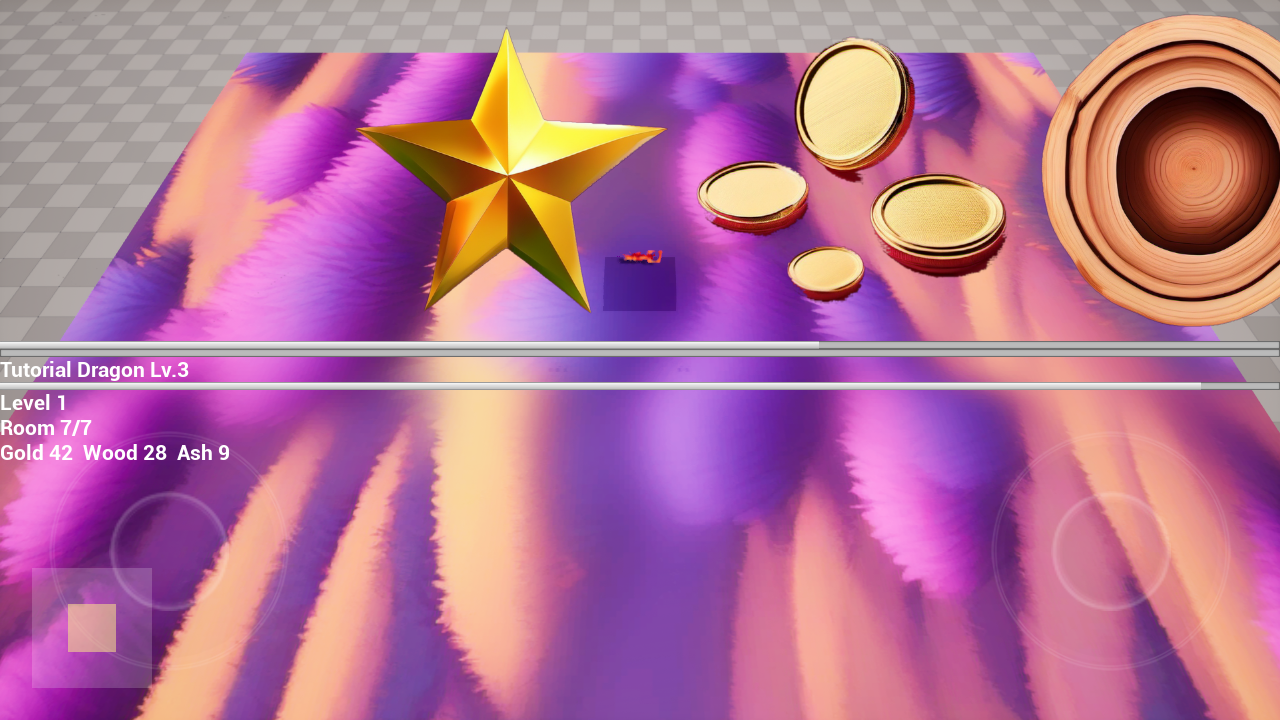
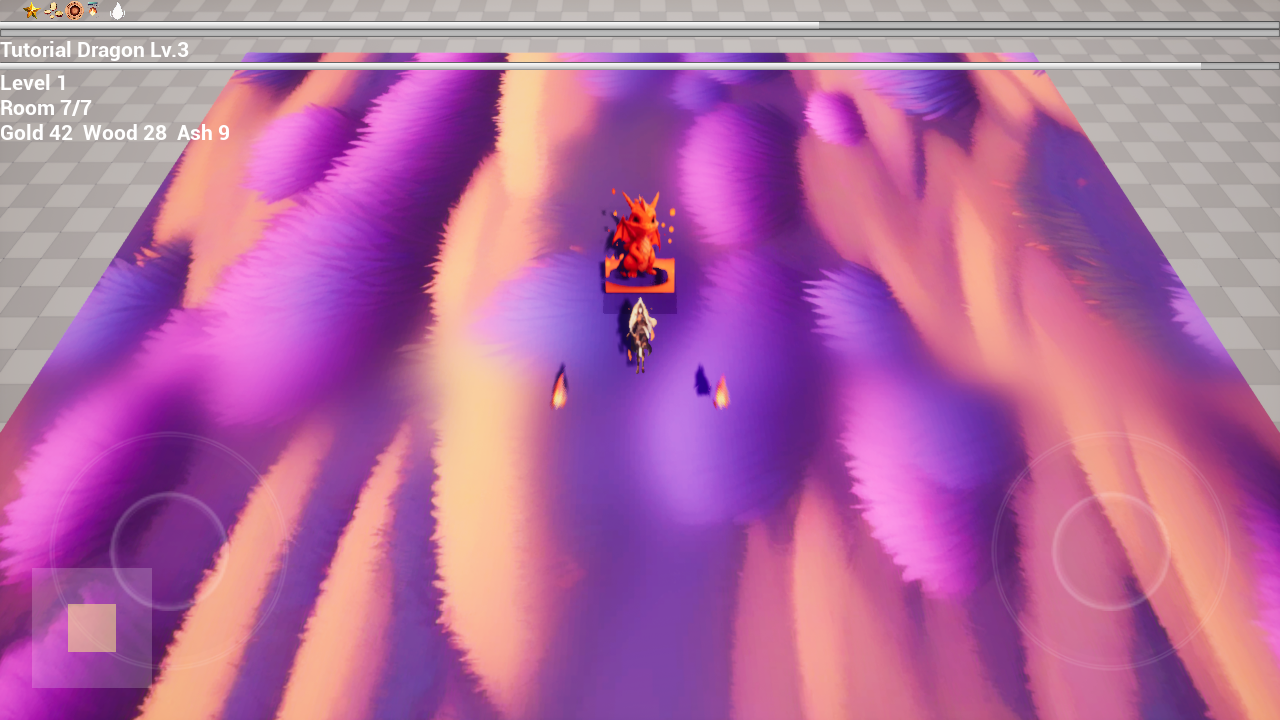
M9-polish: billboard orientation/scale/material/texture fixes

Changed region(s): [[0.0, 0.0, 1.0, 0.6417]]

diff --git a/Source/EmberboundIsekai/Enemies/EmberEnemyBase.cpp b/Source/EmberboundIsekai/Enemies/EmberEnemyBase.cpp
@@ -48,7 +48,7 @@ AEmberEnemyBase::AEmberEnemyBase()
 	if (PlaneMesh)
 	{
 		BillboardVisual->SetStaticMesh(PlaneMesh);
-		BillboardVisual->SetRelativeLocation(FVector(0.0f, 0.0f, 55.0f));
+		BillboardVisual->SetRelativeLocation(FVector(0.0f, 0.0f, 80.0f));
 		BillboardVisual->SetRelativeScale3D(FVector(1.0f, 1.0f, 1.0f));
 	}
 
@@ -235,9 +235,10 @@ void AEmberEnemyBase::ConfigureBillboard(FName TextureId, const FVector& VisualS
 {
 	if (BillboardVisual)
 	{
-		const float Width = FMath::Clamp(VisualScale.X * 1.35f, 0.6f, 2.6f);
-		const float Height = FMath::Clamp(VisualScale.Z * 1.7f, 0.55f, 2.7f);
-		BillboardVisual->SetRelativeScale3D(FVector(Width, 1.0f, Height));
+		const float Width = FMath::Clamp(VisualScale.X * 1.25f, 0.75f, 3.0f);
+		const float Height = FMath::Clamp(FMath::Max(VisualScale.Z * 1.8f, VisualScale.X * 1.35f), 0.95f, 3.2f);
+		BillboardVisual->SetRelativeLocation(FVector(0.0f, 0.0f, Height * 50.0f));
+		BillboardVisual->SetRelativeScale3D(FVector(Width, Height, 1.0f));
 		if (UMaterialInterface* Material = EmberGeneratedArt::LoadBillboardMaterial())
 		{
 			BillboardVisual->SetMaterial(0, Material);

diff --git a/Source/EmberboundIsekai/Expedition/ExpeditionGameMode.cpp b/Source/EmberboundIsekai/Expedition/ExpeditionGameMode.cpp
@@ -25,6 +25,7 @@
 #include "Engine/World.h"
 #include "HAL/IConsoleManager.h"
 #include "Kismet/GameplayStatics.h"
+#include "Materials/MaterialInstanceDynamic.h"
 #include "Materials/MaterialInterface.h"
 #include "Misc/CommandLine.h"
 #include "TimerManager.h"
@@ -51,7 +52,11 @@ namespace
 			Floor->SetActorLabel(TEXT("M5b_ExpeditionCorruptedGrassFloor"));
 #endif
 			Floor->GetStaticMeshComponent()->SetStaticMesh(PlaneMesh);
-			Floor->GetStaticMeshComponent()->SetMaterial(0, Material);
+			UMaterialInstanceDynamic* FloorMID = Floor->GetStaticMeshComponent()->CreateAndSetMaterialInstanceDynamicFromMaterial(0, Material);
+			if (FloorMID)
+			{
+				FloorMID->SetVectorParameterValue(TEXT("Tint"), FLinearColor(0.80f, 0.70f, 0.82f, 1.0f));
+			}
 			Floor->GetStaticMeshComponent()->SetCollisionEnabled(ECollisionEnabled::NoCollision);
 			Floor->SetActorScale3D(FVector(28.0f, 28.0f, 1.0f));
 		}

diff --git a/Source/EmberboundIsekai/Camp/CampBuildingActor.cpp b/Source/EmberboundIsekai/Camp/CampBuildingActor.cpp
@@ -49,11 +49,11 @@ ACampBuildingActor::ACampBuildingActor()
 	if (PlaneMesh)
 	{
 		BillboardVisual->SetStaticMesh(PlaneMesh);
-		BillboardVisual->SetRelativeLocation(FVector(0.0f, 0.0f, 40.0f));
-		BillboardVisual->SetRelativeScale3D(FVector(1.8f, 1.0f, 1.35f));
+		BillboardVisual->SetRelativeLocation(FVector(0.0f, 0.0f, 82.0f));
+		BillboardVisual->SetRelativeScale3D(FVector(1.8f, 1.45f, 1.0f));
 		FlameVisual->SetStaticMesh(PlaneMesh);
 		FlameVisual->SetRelativeLocation(FVector(0.0f, 0.0f, 120.0f));
-		FlameVisual->SetRelativeScale3D(FVector(0.7f, 1.0f, 0.7f));
+		FlameVisual->SetRelativeScale3D(FVector(0.48f, 0.62f, 1.0f));
 	}
 }
 

diff --git a/Source/EmberboundIsekai/UI/CampHUDWidget.cpp b/Source/EmberboundIsekai/UI/CampHUDWidget.cpp
@@ -33,7 +33,8 @@ void UCampHUDWidget::NativeOnInitialized()
 		UImage* Icon = WidgetTree->ConstructWidget<UImage>(UImage::StaticClass());
 		if (UTexture2D* Texture = EmberGeneratedArt::LoadTexture(EmberGeneratedArt::HudIconTexturePath(IconId)))
 		{
-			Icon->SetBrushFromTexture(Texture, true);
+			Icon->SetBrushFromTexture(Texture, false);
+			Icon->SetDesiredSizeOverride(FVector2D(28.0f, 28.0f));
 		}
 		Resources->AddChildToHorizontalBox(Icon);
 		UTextBlock* Text = WidgetTree->ConstructWidget<UTextBlock>(UTextBlock::StaticClass());

diff --git a/Source/EmberboundIsekai/Combat/EmberPlayerCharacter.cpp b/Source/EmberboundIsekai/Combat/EmberPlayerCharacter.cpp
@@ -54,8 +54,8 @@ AEmberPlayerCharacter::AEmberPlayerCharacter()
 	if (PlaneMesh)
 	{
 		BillboardVisual->SetStaticMesh(PlaneMesh);
-		BillboardVisual->SetRelativeLocation(FVector(0.0f, 0.0f, 15.0f));
-		BillboardVisual->SetRelativeScale3D(FVector(1.15f, 1.0f, 1.8f));
+		BillboardVisual->SetRelativeLocation(FVector(0.0f, 0.0f, 88.0f));
+		BillboardVisual->SetRelativeScale3D(FVector(1.2f, 1.75f, 1.0f));
 	}
 
 	BlobShadow = CreateDefaultSubobject<UStaticMeshComponent>(TEXT("BlobShadow"));

diff --git a/Source/EmberboundIsekai/UI/EmberHUDWidget.cpp b/Source/EmberboundIsekai/UI/EmberHUDWidget.cpp
@@ -40,7 +40,8 @@ void UEmberHUDWidget::NativeOnInitialized()
 		UImage* Icon = WidgetTree->ConstructWidget<UImage>(UImage::StaticClass());
 		if (UTexture2D* Texture = EmberGeneratedArt::LoadTexture(EmberGeneratedArt::HudIconTexturePath(IconId)))
 		{
-			Icon->SetBrushFromTexture(Texture, true);
+			Icon->SetBrushFromTexture(Texture, false);
+			Icon->SetDesiredSizeOverride(FVector2D(28.0f, 28.0f));
 			++ResolvedIcons;
 		}
 		IconRow->AddChildToHorizontalBox(Icon);

diff --git a/Source/EmberboundIsekai/Combat/EmberPickup.cpp b/Source/EmberboundIsekai/Combat/EmberPickup.cpp
@@ -34,7 +34,8 @@ AEmberPickup::AEmberPickup()
 	if (PlaneMesh)
 	{
 		Visual->SetStaticMesh(PlaneMesh);
-		Visual->SetRelativeScale3D(FVector(0.28f, 1.0f, 0.28f));
+		Visual->SetRelativeLocation(FVector(0.0f, 0.0f, 26.0f));
+		Visual->SetRelativeScale3D(FVector(0.36f, 0.36f, 1.0f));
 	}
 }
 

diff --git a/Docs/orchestration/M9polish_report.md b/Docs/orchestration/M9polish_report.md
@@ -1,0 +1,34 @@
+# M9 Polish Report - Billboard orientation, scale, material, and texture pass
+
+## Before
+- `Docs/validation/shot_boss.png` showed the Tutorial Dragon as a small dark box/red speck instead of the orange `T_TutorialDragon` art.
+- `shot_expedition.png` and `shot_boss.png` had huge HUD/pickup-looking icons dominating the top of the view, while the player/enemy billboards were edge-on or too small.
+- `shot_camp.png` made the camp visuals hard to read because the generated billboards and HUD icons were oversized/misinterpreted; the building sprites also used plane dimensions that treated Z as sprite height.
+
+## Root Cause
+- Runtime sprite actors use `/Engine/BasicShapes/Plane`, whose useful sprite dimensions are local X/Y. Several actors were scaling local Z for height, which does not resize the plane surface.
+- The shared camera-facing helper copied the camera rotator directly onto a plane whose local normal is +Z, instead of rotating the plane normal toward the gameplay camera.
+- HUD image widgets used `SetBrushFromTexture(..., true)`, so 512px source textures reported native size and rendered as oversized viewport icons.
+
+## Changes
+- Reworked `EmberGeneratedArt::FaceComponentToPlayerCamera` to align the plane normal to the active player camera using a camera-right/up-stable rotation.
+- Changed player, enemy, boss, pickup, camp building, and campfire flame billboard dimensions to use XY plane scale and sensible vertical offsets.
+- Added explicit camp building texture mapping for `campfire-core`, `grim-forge`, `monster-pen`, `watchtower`, and `expedition-portal`.
+- Constrained camp and expedition HUD icon images to 28x28 so they no longer obscure validation screenshots.
+- Applied a low-risk runtime tint to the expedition corrupted-grass floor material instance to reduce saturation enough for characters to read.
+
+## Verification
+- Build green:
+  - `Build.bat EmberboundIsekaiEditor Win64 Development -Project=E:\mobilegamer\EmberboundIsekai\EmberboundIsekai.uproject -WaitMutex -MaxParallelActions=10`
+  - Final result: `Result: Succeeded`
+- Final captures used one editor process at a time, real RHI, `-RenderOffScreen`, no `-unattended`, and `Ember.CaptureAfter`:
+  - `Docs/validation/shot_camp.png`
+  - `Docs/validation/shot_expedition.png`
+  - `Docs/validation/shot_boss.png`
+- Visual confirmation from final PNG inspection:
+  - Camp: all five camp building sprites are upright, distinct, and not replaced by resource icons; HUD icons are small.
+  - Expedition: player sprite is upright/readable, enemy/pickup sprites are no longer edge-on/oversized, HUD icons are small.
+  - Boss: Tutorial Dragon is upright, orange, and clearly recognizable as the generated dragon texture; player and VFX read against the toned floor.
+
+## Notes
+- The first post-build capture attempt used too short a timeout for this machine's editor startup and produced no PNG. The bounded capture was rerun with a longer timeout; only editor PIDs launched by this task were stopped.
